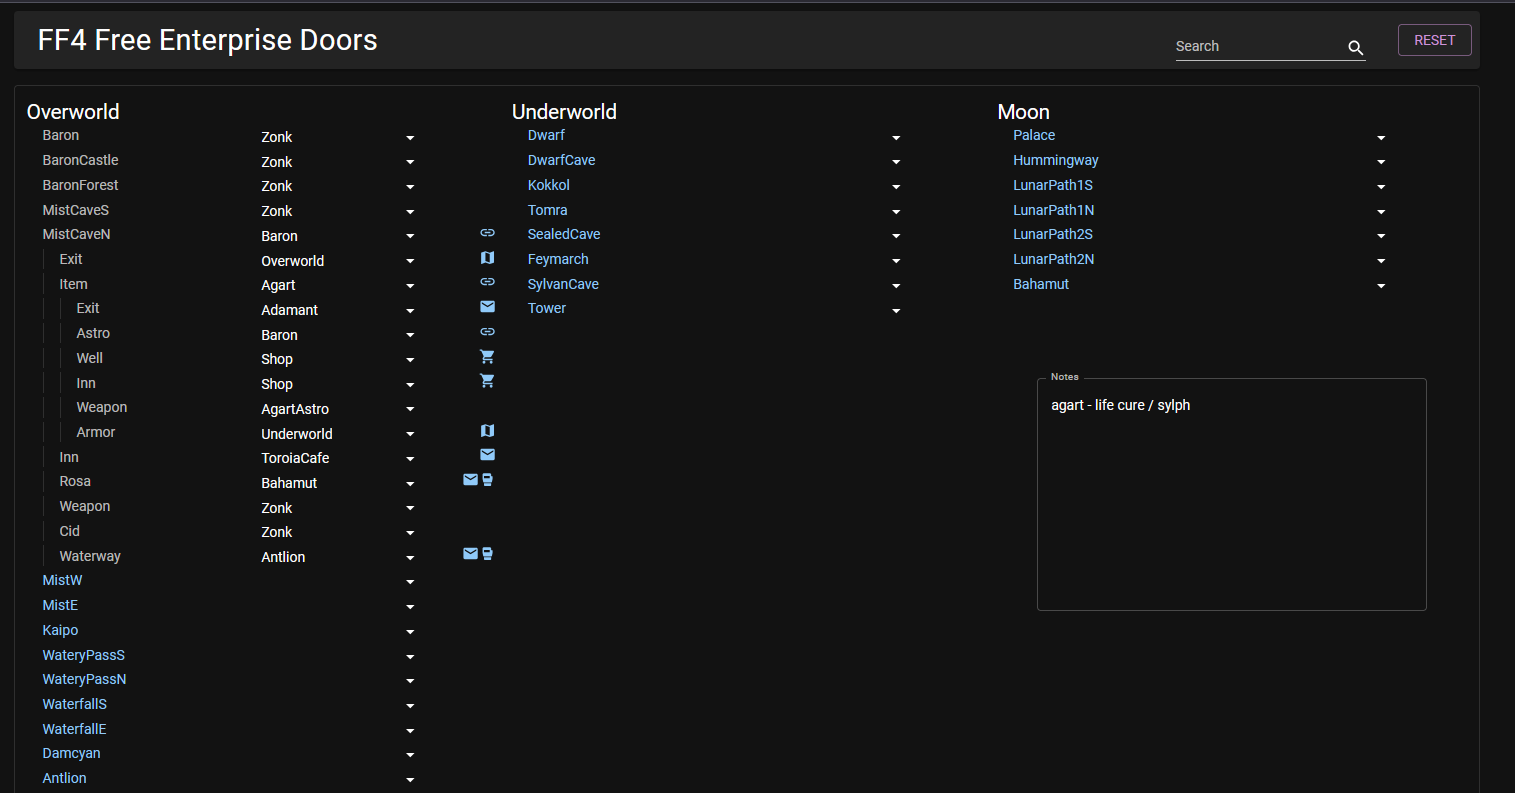
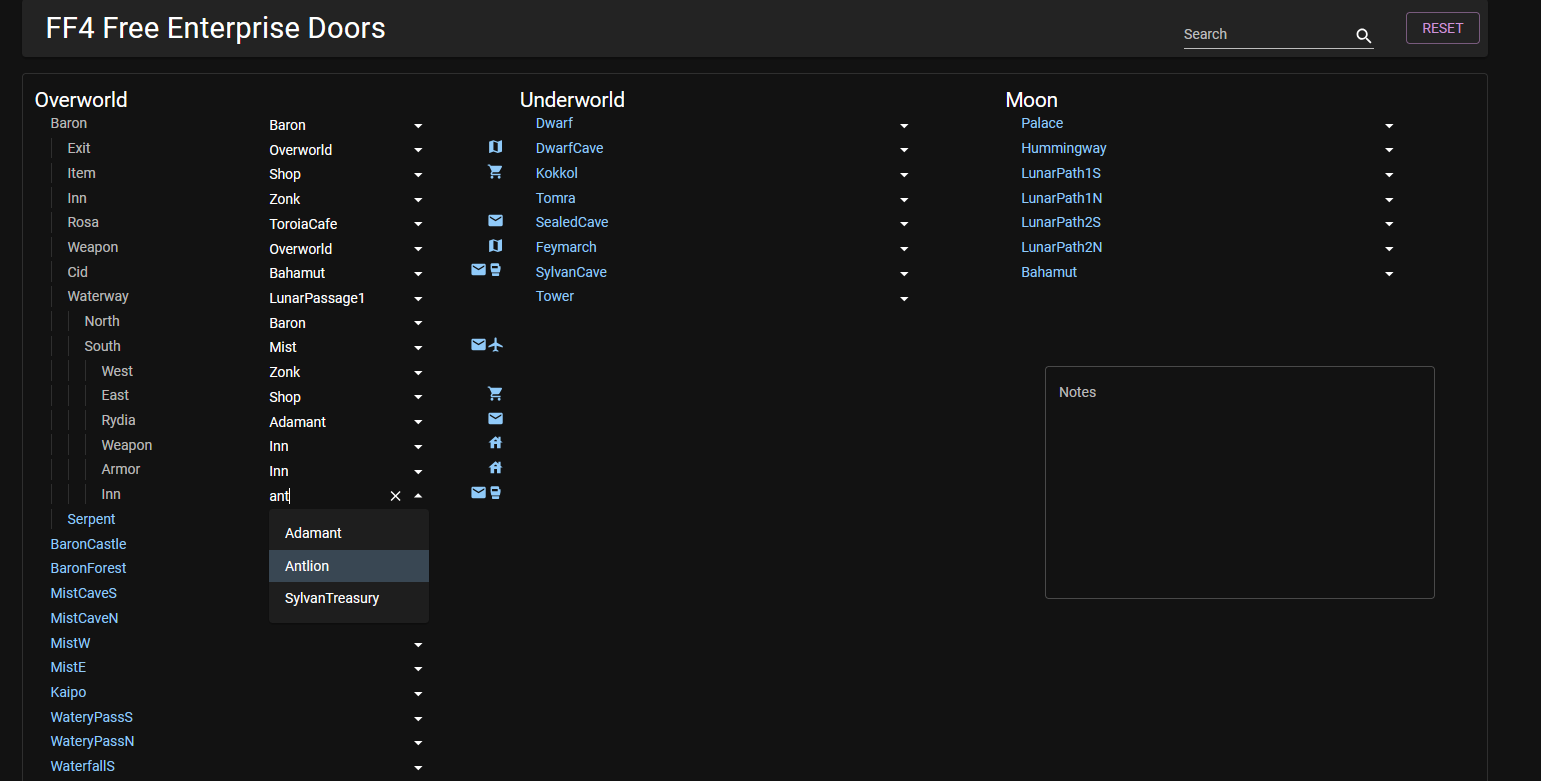
add serpent road

diff --git a/src/locationCardIcons.tsx b/src/locationCardIcons.tsx
@@ -6,7 +6,6 @@ import MapIcon from "@mui/icons-material/Map";
 import HouseboatIcon from "@mui/icons-material/Houseboat";
 import RocketIcon from "@mui/icons-material/Rocket";
 import AirplanemodeActiveIcon from "@mui/icons-material/AirplanemodeActive";
-import LinkIcon from "@mui/icons-material/Link";
 import ShoppingCartIcon from "@mui/icons-material/ShoppingCart";
 import HouseIcon from "@mui/icons-material/House";
 import PetsIcon from "@mui/icons-material/Pets";
@@ -36,8 +35,6 @@ const LocationCardIcons: FunctionComponent<{ tags: MapTag[] }> = ({ tags }) => {
           return <ShoppingCartIcon key={i} {...iconProps} />;
         case "INN":
           return <HouseIcon key={i} {...iconProps} />;
-        case "SERPENT":
-          return <LinkIcon key={i} {...iconProps} />;
         case "AIRSHIP":
           return <AirplanemodeActiveIcon key={i} {...iconProps} />;
         case "FALCON":

diff --git a/src/mapLocation.ts b/src/mapLocation.ts
@@ -5,7 +5,6 @@ type MapTag =
   | "BOSS"
   | "SHOP"
   | "INN"
-  | "SERPENT"
   | "AIRSHIP"
   | "FALCON"
   | "HOVERCRAFT"
@@ -70,8 +69,8 @@ const doorsRandoLocations: MapLocation[] = [
   },
   {
     id: "Baron",
-    tags: ["SERPENT"],
-    doors: ["Exit", "Item", "Inn", "Rosa", "Weapon", "Cid", "Waterway"],
+    tags: [],
+    doors: ["Exit", "Item", "Inn", "Rosa", "Weapon", "Cid", "Waterway", "Serpent"],
   },
   {
     id: "BaronInn",
@@ -160,8 +159,8 @@ const doorsRandoLocations: MapLocation[] = [
   },
   {
     id: "Mysidia",
-    tags: ["SERPENT"],
-    doors: ["Exit", "Weapon", "Armor", "Wishes", "Inn", "Item"],
+    tags: [],
+    doors: ["Exit", "Weapon", "Armor", "Wishes", "Inn", "Item", "Serpent"],
   },
   {
     id: "HouseOfWishes",

diff --git a/README.md b/README.md
@@ -2,4 +2,33 @@
 
 Tracker tool for the FF4FE doors randomizer, bundled into a single HTML page.
 
-See releases for downloads.
+## Notes
+ - Mark towns and connecting locations with the appropriate names
+   - New sub-entries will be automatically added, so note the exit too
+ - Mark shops with `Shop` / inns with `Inn`
+ - Mark things you don't care about with `Zonk`
+ - Searching will find destinations, not doors (e.g. search for "cafe" at the end will show you all routes from overworld/underworld/moon to hand in your pass)
+ - Note down important shops in the notes section
+   - This could have been added in the big lists, but it took up too much space in practice so it is easier to just jot the important stuff here.
+
+The icons to the side indicate:
+ - If the spot launches a vehicle (e.g. hovercraft/airship/whale)
+ - If the spot has KI checks / gives a KI
+ - If the spot could give a character
+ - If the spot is a shop
+
+## Downloads
+See releases to get the latest version
+
+## Building
+
+For development locally
+```bash
+npm run dev
+```
+
+For release builds
+```bash
+npm run build
+```
+
